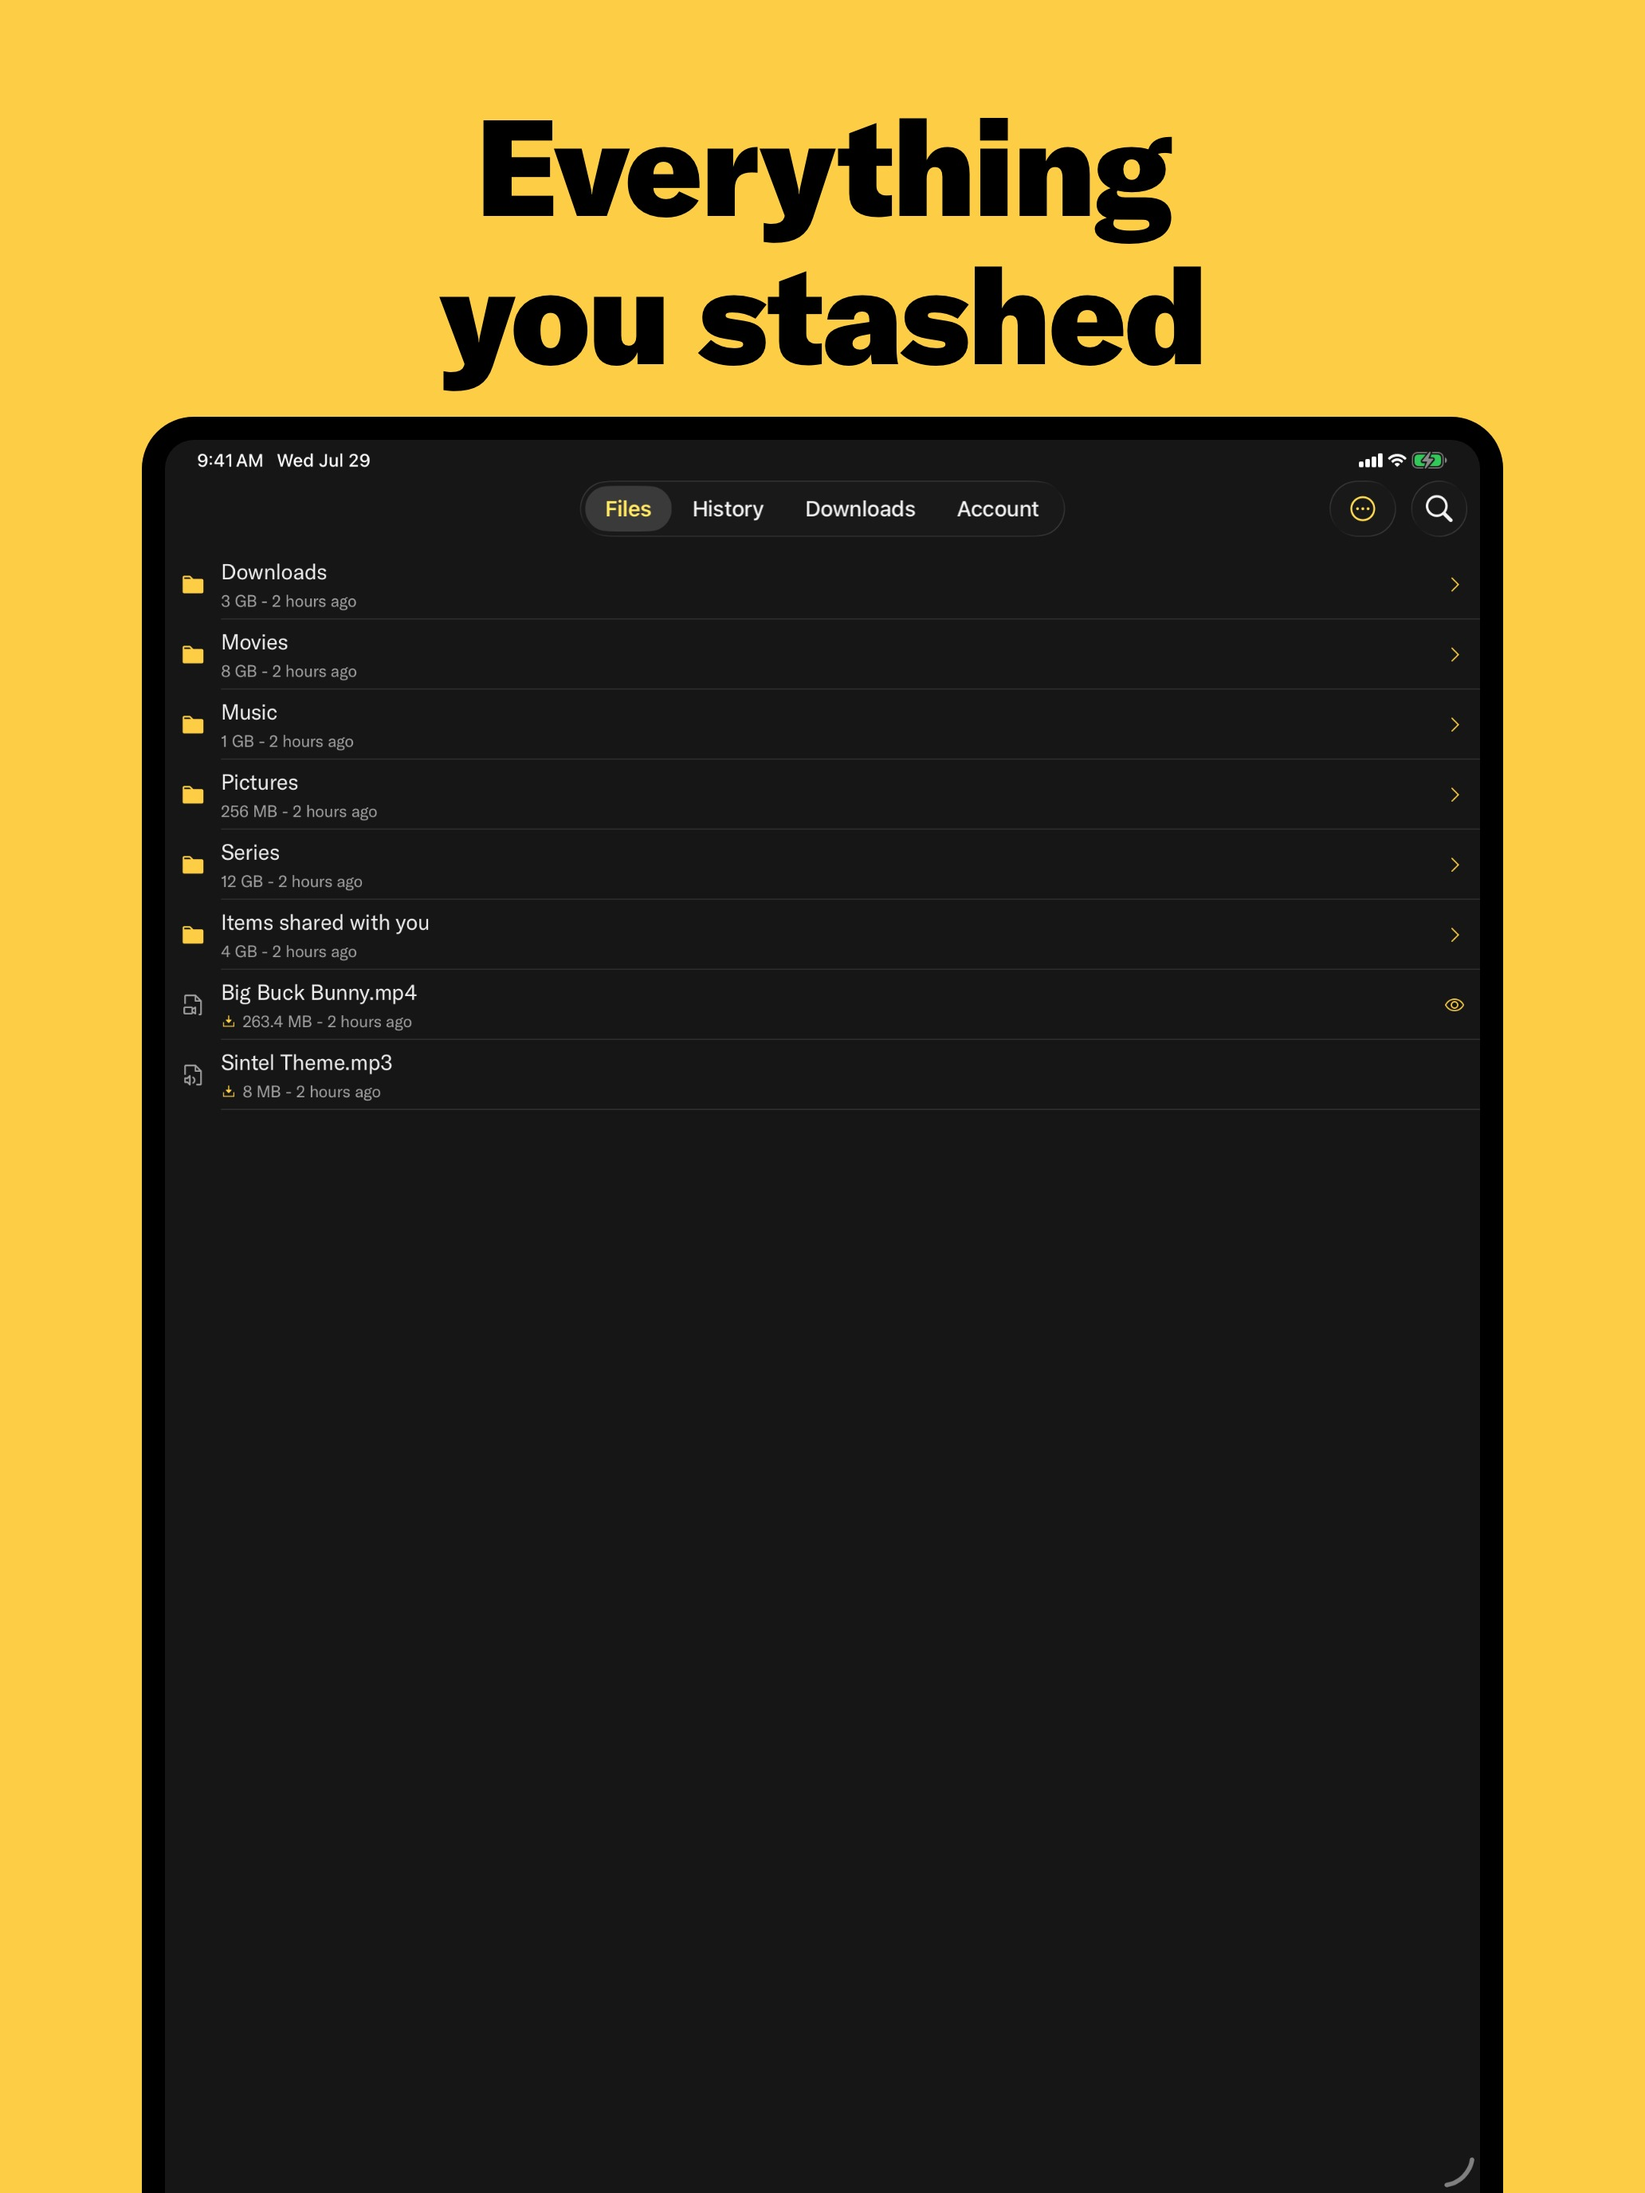
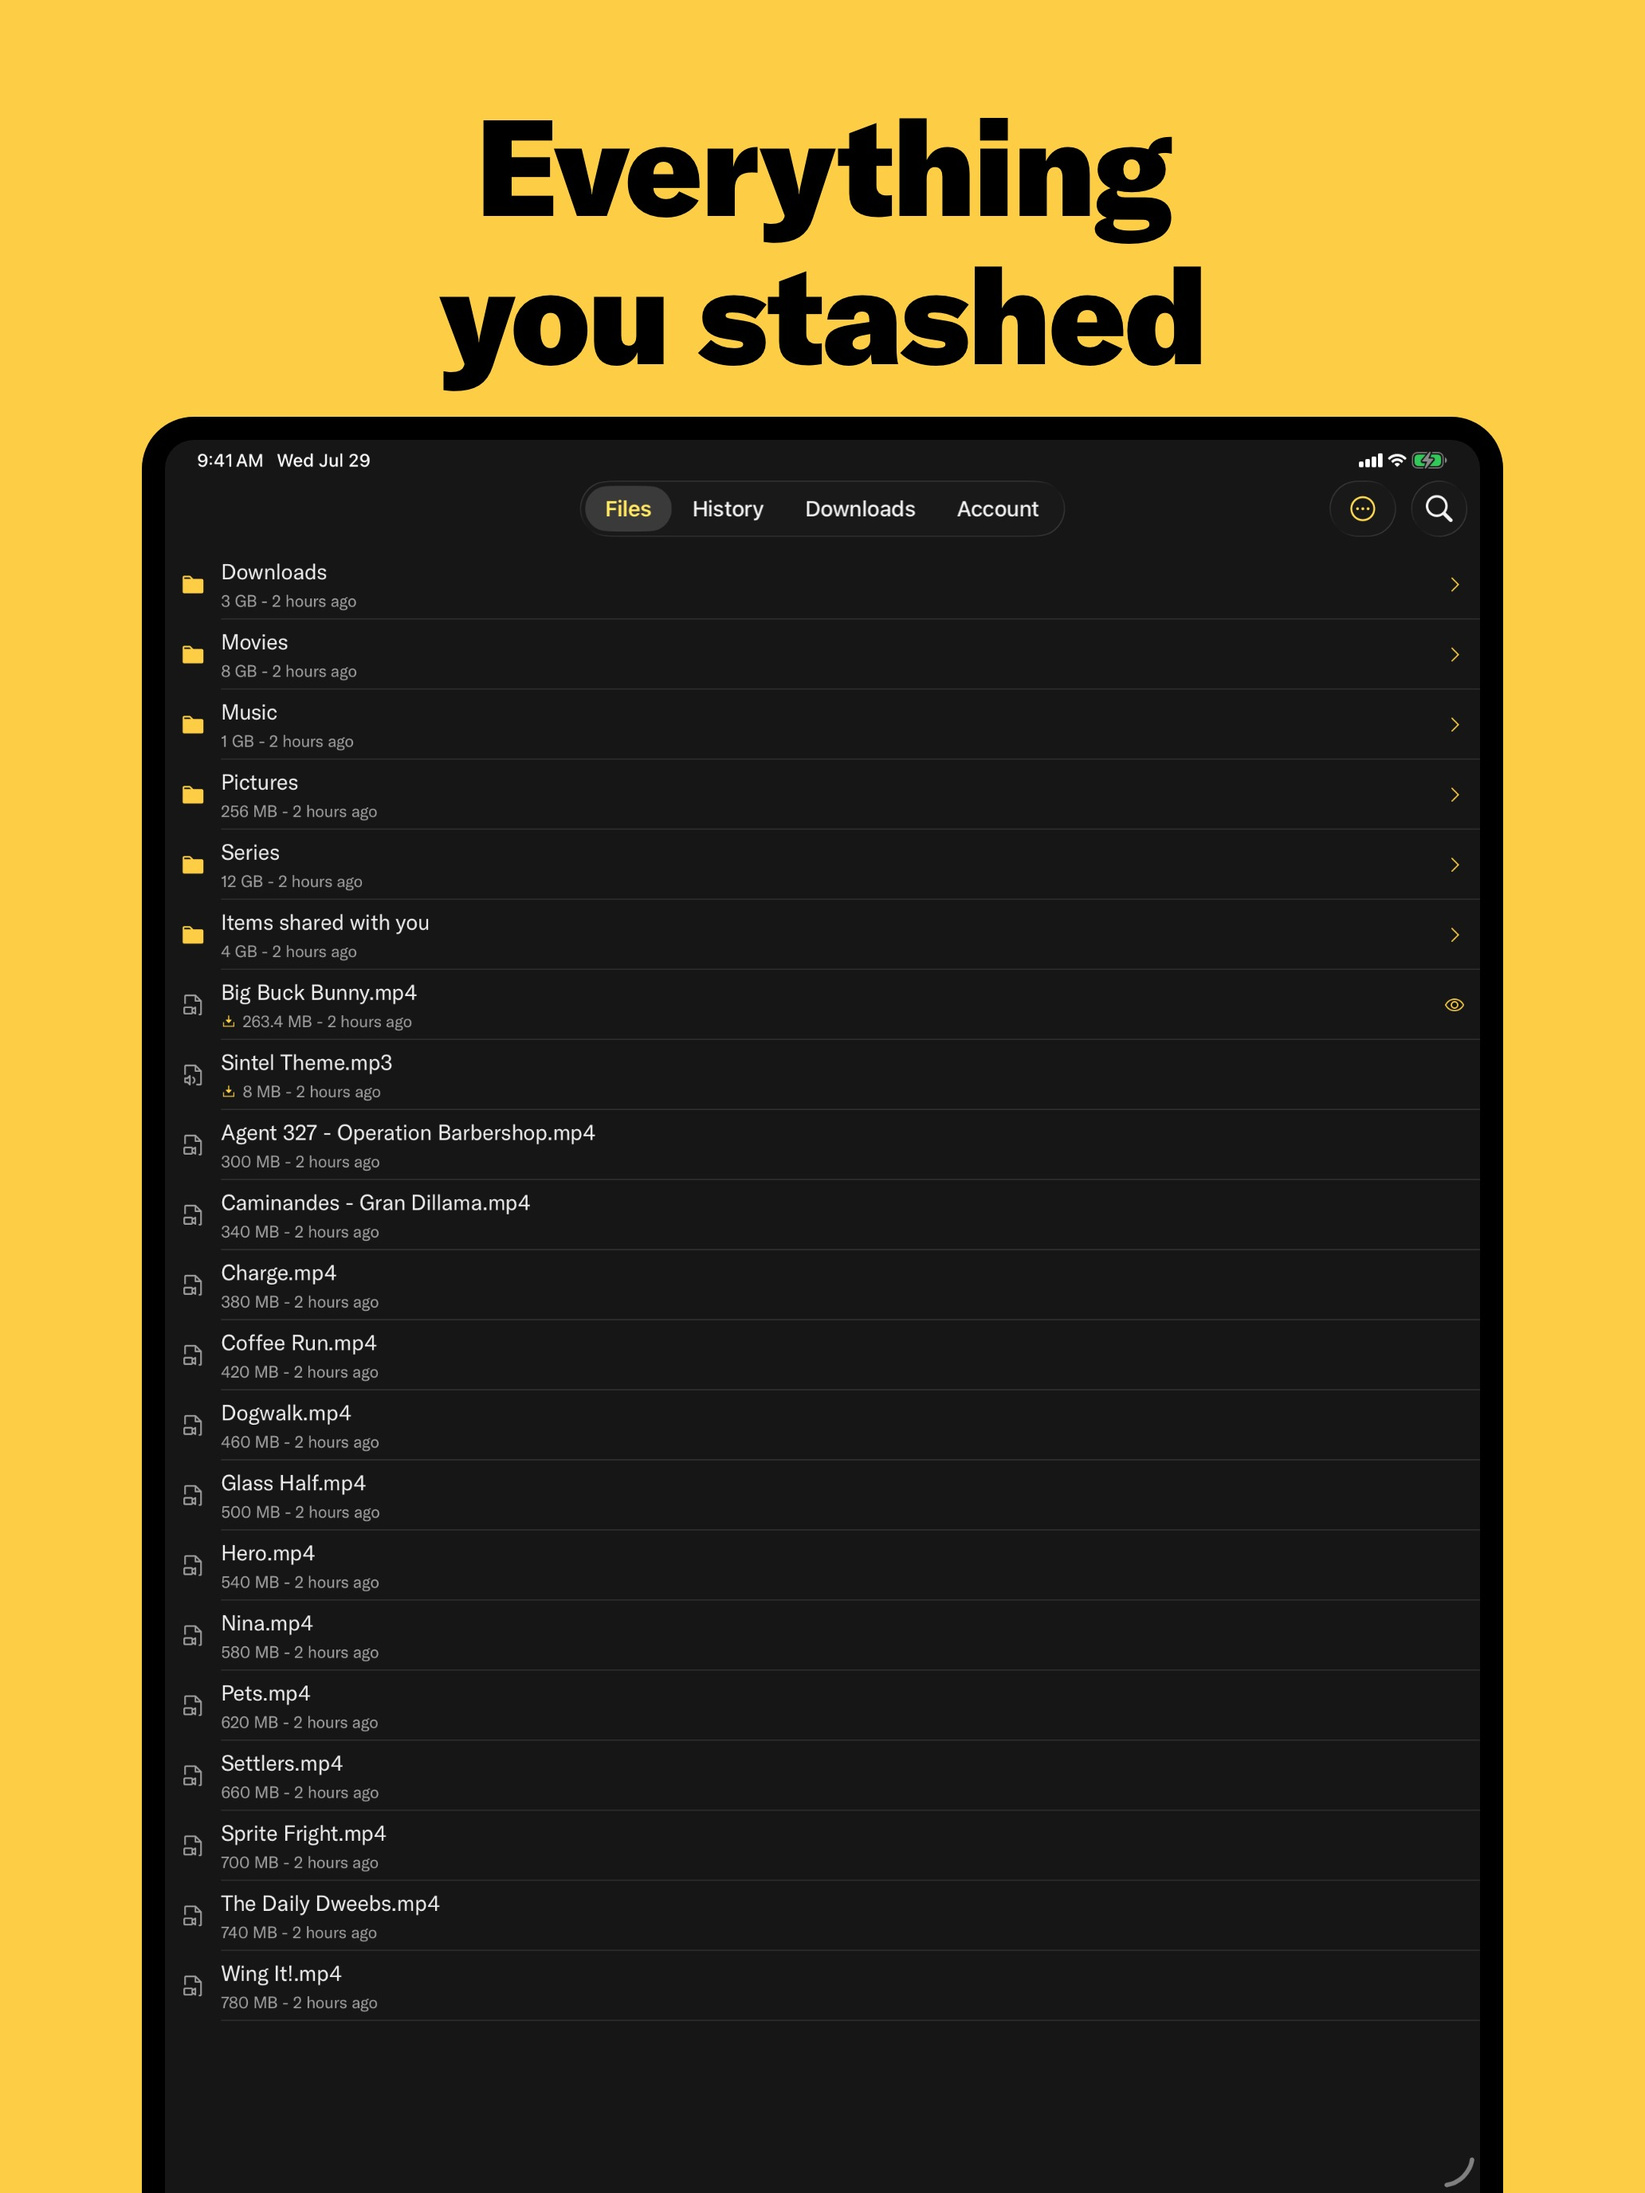
feat(e2e): fill the file list so the store screenshots are not half empty
Closes #86.

Eight fixture rows filled an iPhone and left the lower half of a 13-inch iPad
black, which is what App Store slot 1 is cropped from — the slot that carries the
most weight in a listing. Thirteen more rows take the list to 21, which reaches
the bottom on iPad and the tab bar on iPhone.

Appended rather than interleaved, so ids 42 and 43 stay at positions 7 and 8 and
every element the walk looks up is where it was. No navigation changed and no
test needed touching.

All Blender Studio open movies, like the fixtures already here, and every name
checked against the ones other fixtures use: the walk asserts some titles without
scoping them to a table, so a name reused across tabs would make a readiness wait
match the wrong row. These names also reach the App Store listing, which is a
second reason to keep them free content rather than titles implying a catalogue
put.io does not have.

Sizes are derived from the index rather than random, so a compared baseline does
not move between runs.

Two baselines moved — the files list and the move-files sheet, which shows the
same list — plus both slot-1 marketing images.

Changed region(s): [[0.124, 0.5, 0.3101, 0.9062]]

diff --git a/Putio/Common/API/PutioE2EMockURLProtocol.swift b/Putio/Common/API/PutioE2EMockURLProtocol.swift
@@ -244,12 +244,69 @@ private enum PutioE2EMockAPI {
         \(folder(id: 105, name: "Series", size: 12_884_901_888)),
         \(folder(id: 106, name: "Items shared with you", size: 4_294_967_296)),
         \(videoFile),
-        \(audioFile)
+        \(audioFile),
+        \(libraryFiles)
       ],
       "cursor": null,
-      "total": 8
+      "total": \(6 + 2 + libraryTitles.count)
     }
     """
+
+    // Rows past the eight the walk actually interacts with. They exist so the
+    // list reaches the bottom of a 13-inch iPad, which is what the App Store set
+    // is cropped from — eight rows left the lower half of slot 1 black (#86).
+    //
+    // Appended rather than interleaved: ids 42 and 43 stay at positions 7 and 8,
+    // so every element the walk looks up is where it was, and no navigation
+    // changes.
+    //
+    // All Blender Studio open movies, like the fixtures above. These names reach
+    // the App Store listing, so they are deliberately free content rather than
+    // titles that would imply a catalogue put.io does not have.
+    private static let libraryTitles = [
+        "Agent 327 - Operation Barbershop",
+        "Caminandes - Gran Dillama",
+        "Charge",
+        "Coffee Run",
+        "Dogwalk",
+        "Glass Half",
+        "Hero",
+        "Nina",
+        "Pets",
+        "Settlers",
+        "Sprite Fright",
+        "The Daily Dweebs",
+        "Wing It!"
+    ]
+
+    private static let libraryFiles = libraryTitles
+        .enumerated()
+        .map { index, title in
+            // Sizes vary so the subtitle column does not read as a repeated
+            // string, and are derived from the index so they stay fixed across
+            // runs — a random size would move pixels in a compared baseline.
+            libraryFile(id: 200 + index, name: "\(title).mp4", size: 314_572_800 + index * 41_943_040)
+        }
+        .joined(separator: ",\n")
+
+    private static func libraryFile(id: Int, name: String, size: Int) -> String {
+      """
+      {
+        "id": \(id),
+        "name": "\(name)",
+        "icon": "video",
+        "parent_id": 0,
+        "size": \(size),
+        "created_at": "\(fixtureFileDate)",
+        "updated_at": "\(fixtureFileDate)",
+        "file_type": "VIDEO",
+        "is_shared": false,
+        "sort_by": "NAME_ASC",
+        "need_convert": false,
+        "is_mp4_available": true
+      }
+      """
+    }
 
     private static func folder(id: Int, name: String, size: Int) -> String {
       """
